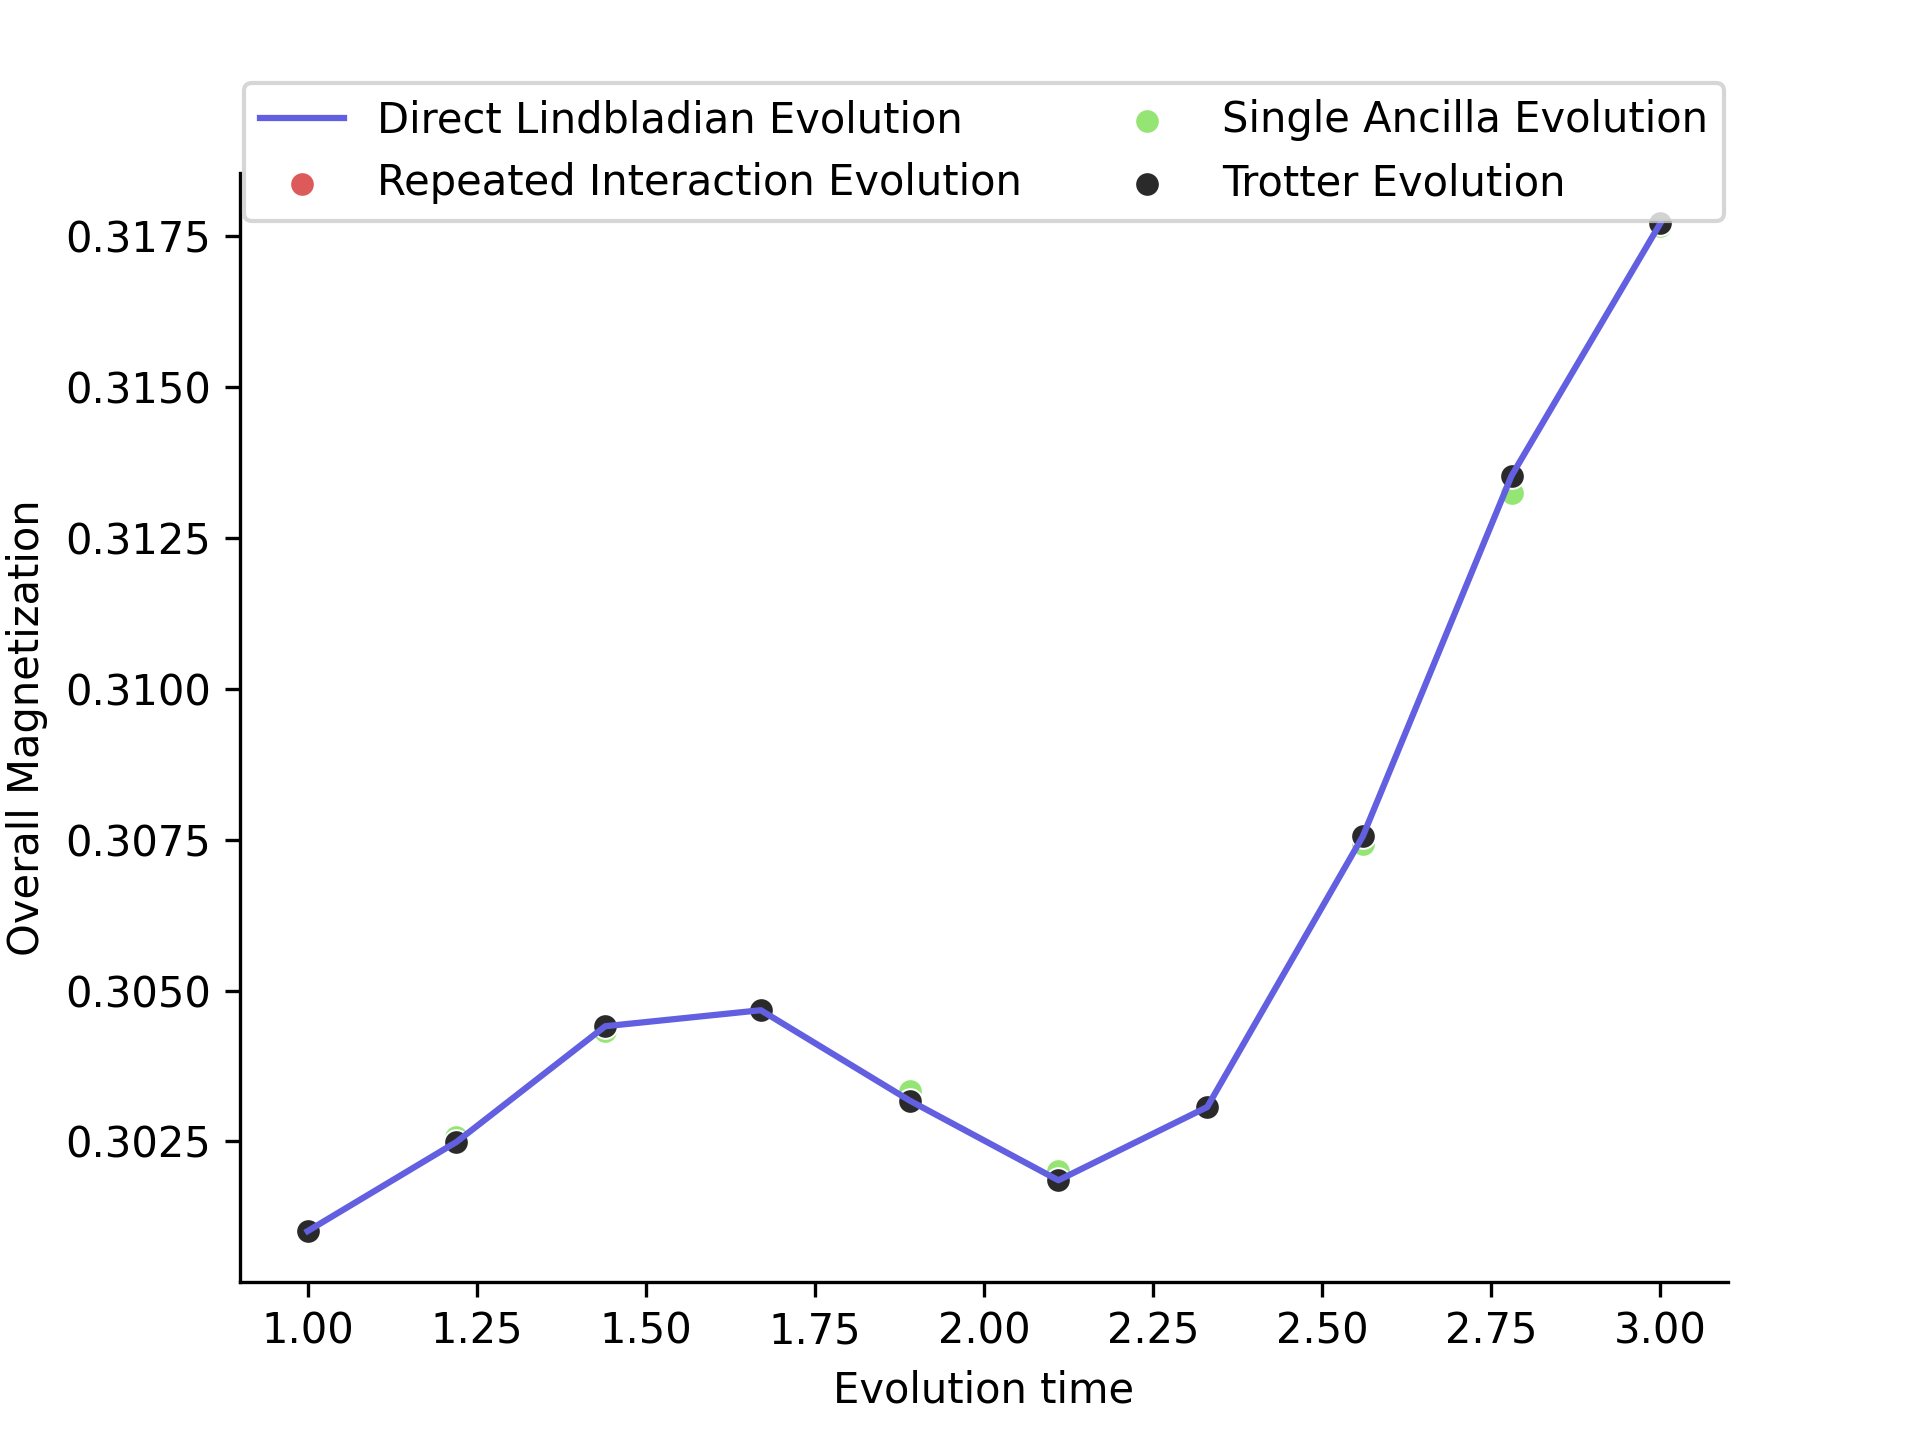
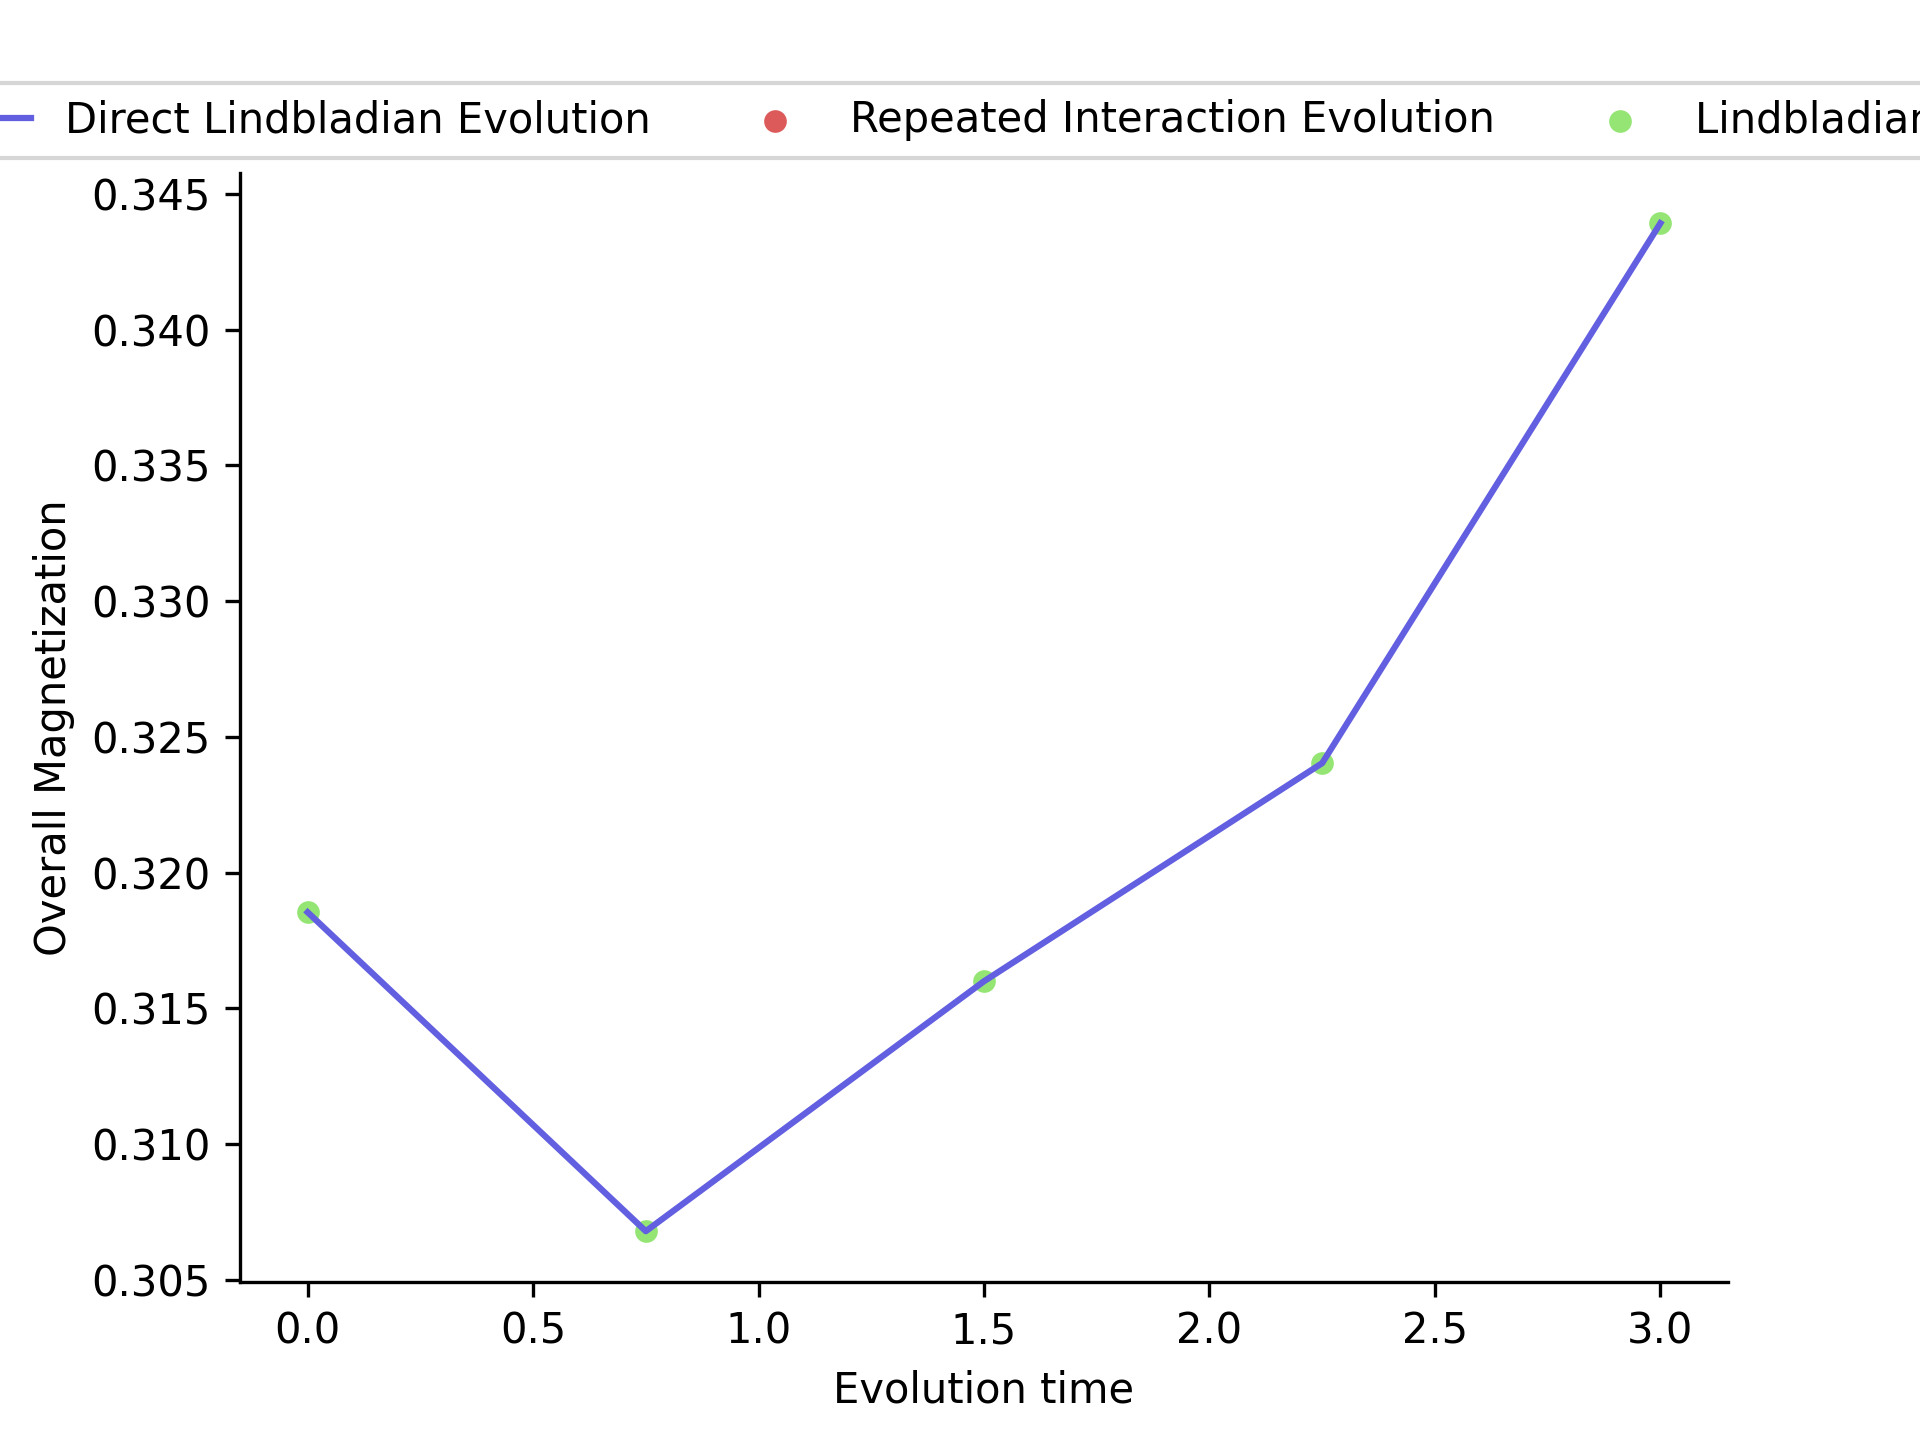
thermal state integration

diff --git a/ising/lindbladian/simulation/multi_cm_damping.py b/ising/lindbladian/simulation/multi_cm_damping.py
@@ -1,8 +1,8 @@
 import numpy as np
 from itertools import product
 import json
-from qiskit.quantum_info import Pauli
 from ising.lindbladian.simulation.unraveled import (
+    thermal_lindbladians,
     lowering_all_sites,
     lindbladian_operator,
 )
@@ -17,26 +17,19 @@ from tqdm import tqdm
 
 ZERO = np.array([[1], [0]])
 ONE = np.array([[0], [1]])
-SIGMA_MINUS = np.array([[0, 1], [0, 0]])
-SIGMA_PLUS = np.array([[0, 0], [1, 0]])
+SIGMA_MINUS = np.array([[0, 1], [0, 0]]) # a_dag
+SIGMA_PLUS = np.array([[0, 0], [1, 0]]) # a_n
+
+def calculate_gamma(beta):
+    return np.exp(-beta) / (1 + np.exp(-beta))
 
 
 QUBIT_COUNT = 3
-GAMMAS = [0, 0.1, 0.4, 0.7, 0.9]
-GAMMA = 0
-TIME_RANGE = (1, 5)
-TIME_COUNT = 10
+GAMMA = 0.5
+TIME_RANGE = (0, 10)
+TIME_COUNT = 5
 EPS = 0.1
-DELTA = 0.9
 
-SAL_RUNS = int(
-            8
-            * np.ceil(
-                ((np.log(2 / (1 - DELTA)))) / (EPS ** 2)
-            )
-        )
-
-SAL_RUNS = 100
 H_VAL = -0.1
 COLORS = ["#DC5B5A", "#625FE1", "#94E574", "#2A2A2A", "#D575EF"]
 
@@ -108,7 +101,7 @@ def apply_amplitude_damping(rho_sys, ham, gamma, time, nue=1000):
     return cur_rho
 
 
-def lindblad_evo(rho, ham, gamma, time):
+def lindblad_evo(rho, ham, gamma, z, time):
     """
     Function to calculate final state after amplitude damping.
 
@@ -119,11 +112,10 @@ def lindblad_evo(rho, ham, gamma, time):
         - time: evolution time
     """
     # columnize
-    qubit_count = int(np.log2(rho.shape[0]))
     rho_vec = rho.reshape(-1, 1)
 
     # Hamiltonian is zero
-    l_op = lindbladian_operator(ham, lowering_all_sites(qubit_count, gamma=gamma))
+    l_op = lindbladian_operator(ham, thermal_lindbladians(QUBIT_COUNT, gamma=gamma, z=z))
 
     eig_val, eig_vec = np.linalg.eig(l_op)
     eig_vec_inv = np.linalg.inv(eig_vec)
@@ -134,10 +126,9 @@ def lindblad_evo(rho, ham, gamma, time):
 
     return rho_final
 
-
-def interaction_hamiltonian(QUBIT_COUNT, gamma=1):
+def interaction_hamiltonian(QUBIT_COUNT, gamma):
     """
-    Construct a `QUBIT_COUNT+1` Hamiltonian for each interaction point.
+    Construct a `2*QUBIT_COUNT` Hamiltonian for each interaction point.
     There will be `QUBIT_COUNT` of them, acting on two qubits each
 
     Input:
@@ -146,10 +137,10 @@ def interaction_hamiltonian(QUBIT_COUNT, gamma=1):
     """
     ham_ints = []
     for _site in range(QUBIT_COUNT):
-        sys_site, env_site = _site, QUBIT_COUNT + 1
+        sys_site, env_site = _site, _site + QUBIT_COUNT
 
         ham_int1, ham_int2 = None, None
-        for pos in range(QUBIT_COUNT + 1):
+        for pos in range(2*QUBIT_COUNT):
             cur_op1, cur_op2 = None, None
             if pos == sys_site:
                 cur_op1, cur_op2 = SIGMA_PLUS, SIGMA_MINUS
@@ -184,13 +175,14 @@ def ham_evo(rho_sys, rho_env, ham_sys, gamma, time, neu=1000):
         - time: Evolution time to match
     """
     tau = time / neu
+    big_ham_sys = np.kron(ham_sys, np.eye(2 ** QUBIT_COUNT))
 
-    # QUBIT_COUNT + 1 size Hamiltonian
-    big_ham_sys = np.kron(ham_sys, np.eye(2))
+    big_rho_env = rho_env
+    for _ in range(QUBIT_COUNT - 1):
+        big_rho_env = np.kron(big_rho_env, rho_env)
 
     cur_rho_sys = rho_sys
 
-    # QUBIT_COUNT + 1 size Hamiltonians
     ham_ints = interaction_hamiltonian(QUBIT_COUNT, gamma=gamma)
 
     hams = []
@@ -213,11 +205,11 @@ def ham_evo(rho_sys, rho_env, ham_sys, gamma, time, neu=1000):
         for _ in range(neu):
             pbar.update(1)
             for u, u_dag in zip(us, u_dags):
-                complete_rho = np.kron(cur_rho_sys, rho_env)
+                complete_rho = np.kron(cur_rho_sys, big_rho_env)
                 rho_fin = (
                     u @ complete_rho @ u_dag 
                 )
-                cur_rho_sys = partial_trace(rho_fin, list(range(QUBIT_COUNT, QUBIT_COUNT + 1)))
+                cur_rho_sys = partial_trace(rho_fin, list(range(QUBIT_COUNT, 2*QUBIT_COUNT)))
 
     return cur_rho_sys
 
@@ -237,24 +229,27 @@ def test_main():
     ham = parametrized_ising(QUBIT_COUNT, H_VAL).matrix
 
     # Environment qubit is always in ZERO, and it is always only one qubit each
-    rho_env = np.outer(ZERO, ZERO.conj())
+    inv_temp = 10
+    alpha, beta = 1, np.exp(-inv_temp) 
+    rho_env1 = (alpha * np.outer(ZERO, ZERO) + beta * np.outer(ONE, ONE)) / (alpha + beta)
 
     observable = overall_magnetization(QUBIT_COUNT).matrix
 
-    gamma = GAMMA
-    results = {"interaction": {}, "lindbladian": {}, "sal": {}}
+    z = calculate_gamma(inv_temp)
+    gamma = 0.1
+
+    results = {"interaction": {}, "lindbladian": {}}
     times = np.linspace(TIME_RANGE[0], TIME_RANGE[1], TIME_COUNT)
     for time in times:
-        neu = max(10, int(10 * (time**2) / EPS))
-        rho_ham = ham_evo(rho_sys, rho_env, ham, gamma, time, neu)
-        rho_lin = lindblad_evo(rho_sys, ham, gamma, time)
+        neu = max(100, int(10 * (time**2) / EPS))
+        rho_ham = ham_evo(rho_sys, rho_env1, ham, gamma, time, neu)
+        rho_lin = lindblad_evo(rho_sys, ham, gamma, z, time)
 
-        rho_lin = rho_lin / global_phase(rho_lin)
         rho_ham = rho_ham / global_phase(rho_ham)
+        rho_lin = rho_lin / global_phase(rho_lin)
 
         results["interaction"][time] = np.trace(np.abs(observable @ rho_ham))
         results["lindbladian"][time] = np.trace(np.abs(observable @ rho_lin))
-        results["sal"][time] = taylor_evo(rho_sys, rho_env, observable, gamma, time, EPS)
 
     file_name = f"data/lindbladian/time_vs_magn/size_{QUBIT_COUNT}.json"
     with open(file_name, "w") as file:

diff --git a/ising/lindbladian/plot/plot_multi_cm_damping.py b/ising/lindbladian/plot/plot_multi_cm_damping.py
@@ -7,7 +7,7 @@ from matplotlib import pyplot as plt
 
 COLORS = ["#DC5B5A", "#625FE1", "#94E574", "#2A2A2A", "#D575EF"]
 
-QUBIT_COUNT = 4
+QUBIT_COUNT = 3
 
 def _round(mat):
     return np.round(mat, decimals=2)
@@ -28,6 +28,7 @@ def test_main():
     for _, res in results["lindbladian"].items():
         lindbladian.append(res)
 
+
     ax = sns.lineplot(
         x=times,
         y=lindbladian,
@@ -42,33 +43,6 @@ def test_main():
         color=COLORS[0],
     )
 
-    if "sal" in results.keys():
-        sal = []
-        for _, res in results["sal"].items():
-            sal.append(res)
-
-        ax = sns.scatterplot(
-            x=times,
-            y=sal,
-            label=f"Single Ancilla Evolution",
-            s=35,
-            color=COLORS[2],
-        )
-
-    if "trotter" in results.keys():
-        trotter = []
-        for _, res in results["trotter"].items():
-            trotter.append(res)
-
-        ax = sns.scatterplot(
-            x=times,
-            y=trotter,
-            label=f"Trotter Evolution",
-            s=35,
-            color=COLORS[3],
-        )
-
-
     # Remove the top and right border
     ax.spines["top"].set_visible(False)
     ax.spines["right"].set_visible(False)
@@ -79,7 +53,7 @@ def test_main():
 
     file_name = f"plots/lindbladian/simulation/size_{QUBIT_COUNT}_multi_cm_magnetization.png"
 
-    plt.legend(loc="upper center", bbox_to_anchor=(0.5, 1.10), ncol=2, fontsize=10)
+    plt.legend(loc="upper center", bbox_to_anchor=(0.5, 1.10), ncol=3, fontsize=10)
     plt.savefig(file_name, dpi=300)
     print(f"saved the plot to {file_name}")
 

diff --git a/ising/lindbladian/simulation/unraveled.py b/ising/lindbladian/simulation/unraveled.py
@@ -23,6 +23,7 @@ def transpose(sparse: SparsePauliOp) -> SparsePauliOp:
 
 
 LOWERING = np.array([[0, 1], [0, 0]])
+RAISING = np.array([[0, 0], [1, 0]])
 
 
 def lowering_all_sites(chain_size: int, gamma: float = 1):
@@ -47,6 +48,40 @@ def lowering_all_sites(chain_size: int, gamma: float = 1):
 
     return l_ops
 
+def thermal_lindbladians(chain_size: int, gamma: float = 1, z: float = 1):
+    """
+    Returns the list for lindbladian operators for the lowering operator
+    on all sites.
+    """
+
+    l_ops = []
+    for site in range(chain_size):
+        l, r = site, chain_size - (site + 1)
+
+        if l == 0:
+            op = LOWERING.copy()
+        else:
+            op = np.kron(np.eye(2**l), LOWERING)
+
+        if r > 0:
+            op = np.kron(op, np.eye(2**r))
+
+        l_ops.append(np.sqrt(gamma) * np.sqrt(1 - z) * op)
+
+    for site in range(chain_size):
+        l, r = site, chain_size - (site + 1)
+
+        if l == 0:
+            op = RAISING.copy()
+        else:
+            op = np.kron(np.eye(2**l), RAISING)
+
+        if r > 0:
+            op = np.kron(op, np.eye(2**r))
+
+        l_ops.append(np.sqrt(gamma) * np.sqrt(z) * op)
+
+    return l_ops
 
 def lindbladian_operator(hamiltonian, lindbladian_ops):
     """
